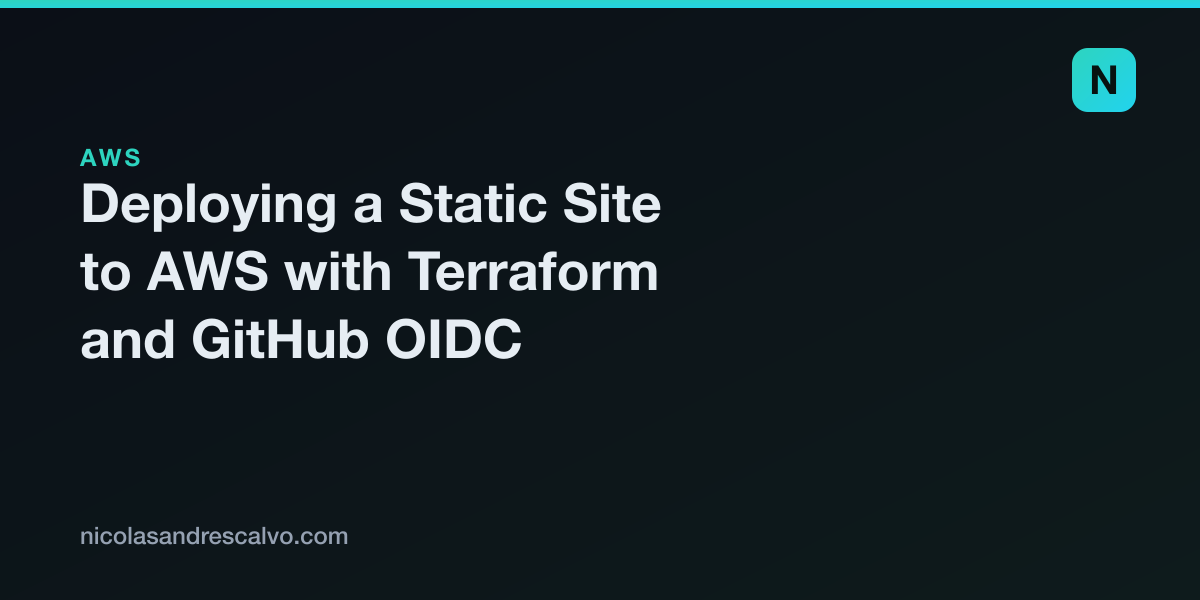
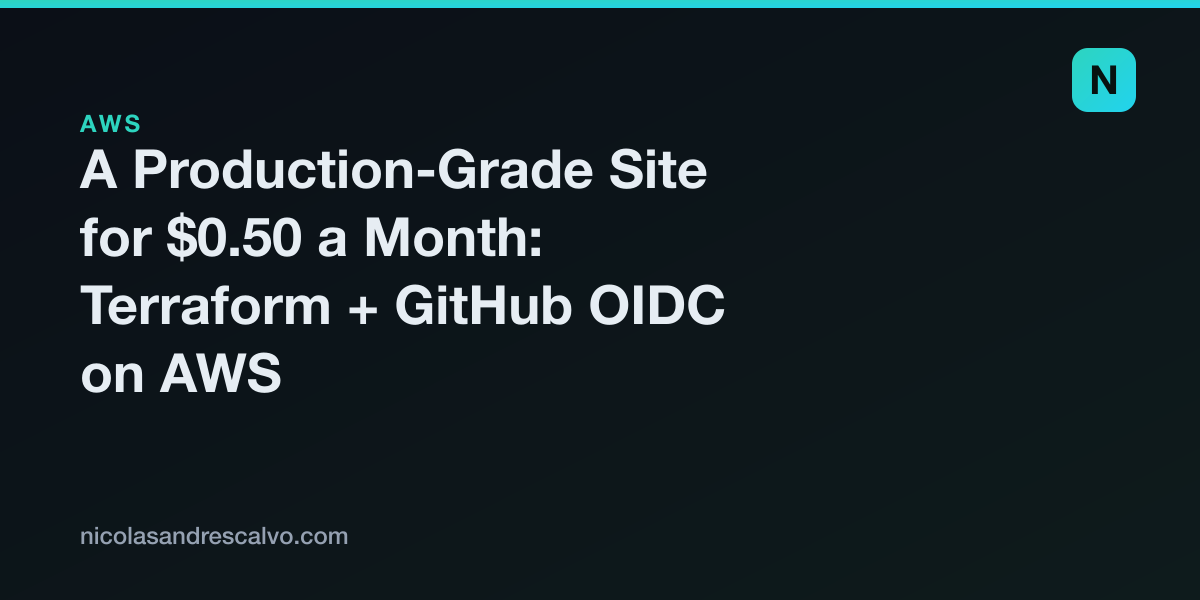
feat: hide GitLab case, sharpen OIDC article with pricing and a stronger hook

Changed region(s): [[0.0617, 0.18, 0.6167, 0.66]]

diff --git a/src/content/cases/terraform-github-oidc-static-site.md b/src/content/cases/terraform-github-oidc-static-site.md
@@ -1,31 +1,50 @@
 ---
-title: "Deploying a Static Site to AWS with Terraform and GitHub OIDC"
-date: 2026-06-15
+title: "A Production-Grade Site for $0.50 a Month: Terraform + GitHub OIDC on AWS"
+date: 2026-06-16
 slug: terraform-github-oidc-static-site
 draft: false
 role: "Personal project"
 tags: ["aws", "terraform", "github-actions", "ci-cd", "cloudfront"]
-summary: "The lazy way to deploy from CI is to paste an AWS access key into a GitHub secret. Here is how this very site ships instead: short-lived OIDC credentials, remote state, and a pipeline that plans on a PR and applies on merge, plus the two gotchas that cost me an afternoon."
+summary: "HTTPS, a global CDN, infrastructure as code, deploys on every git push, and not one leakable secret, for about fifty cents a month. Here is the whole build, the cost breakdown, and the two gotchas that cost me an afternoon."
 ---
 
-# Deploying a Static Site to AWS with Terraform and GitHub OIDC
+# A Production-Grade Site for $0.50 a Month: Terraform + GitHub OIDC on AWS
 
-The fast way to deploy from CI is to create an AWS access key, paste it into a GitHub secret, and move on. It works in five minutes. It is also a long-lived credential with standing permissions sitting in a settings page, and it will still be there, valid, the day someone leaks a workflow log.
+> **TL;DR** This site runs on AWS with HTTPS, a global CDN, and a pipeline that deploys on every push, using **short-lived credentials and zero stored keys**. Infrastructure cost: **about $0.50 a month**. The whole thing is Terraform, and the repo is public.
 
-This site (the one you are reading) deploys without a single static key. The pipeline authenticates to AWS with short-lived credentials it requests per run, scoped to one repository. Here is the whole setup, and the two gotchas that turned a quick job into an afternoon.
+Two beliefs cost teams real money and real risk. The first: production hosting is expensive. The second: the way to deploy from CI is to paste an AWS access key into a secret and move on. Both are wrong, and this site is the proof.
+
+It serves over HTTPS from a global CDN, deploys itself on every `git push`, and authenticates to AWS with credentials that expire when the job ends. There is no long-lived key anywhere to leak. It costs roughly **fifty cents a month**. Here is exactly how, including the cost breakdown and the two gotchas.
 
 ## In plain terms
 
-Instead of handing CI a permanent key to the house, you give it the right to ask a guard for a key that works for a few minutes and only opens one door. Every run asks again. There is nothing to leak, because there is no lasting key to steal.
+Instead of giving the deploy robot a permanent key to the building, you give it the right to ask a guard for a key that works for a few minutes and opens one door. Every deploy asks again. Nothing lasting exists to steal. And the "building" is rented by the request, so an empty site costs almost nothing.
 
-## What gets deployed
+## What you get
 
-The site is static files. The infrastructure around them, all in Terraform:
+- 🔒 **HTTPS** on a custom domain, certificate auto-renewed.
+- 🌍 **Global CDN** (CloudFront) in front of a **private** bucket.
+- 🧱 **All Terraform**, in a public repo, reviewed as pull requests.
+- 🤖 **Deploys on push** to `main`, no human in the loop.
+- 🔑 **No static AWS keys** anywhere: short-lived OIDC credentials per run.
+- 💸 **~$0.50/month.**
 
-- **S3** holds the built site, as a private bucket.
-- **CloudFront** serves it over HTTPS, with the bucket locked behind an Origin Access Control so it is not public.
-- **ACM** issues the TLS certificate (in us-east-1, which CloudFront requires).
-- **Route53** points the apex and www at the distribution.
+## What it costs
+
+The number that sells this: a production-grade setup, for the price of a coffee per year.
+
+| Piece | Cost |
+|------|------|
+| Route53 hosted zone | $0.50 / month |
+| S3 (storage + requests) | a few cents |
+| CloudFront | $0 (the 1 TB/month free tier covers a portfolio) |
+| ACM certificate | free |
+| **Infrastructure total** | **~$0.50 / month** |
+| Domain (.com), separate | ~$12 / year |
+
+CloudFront's perpetual free tier (1 TB out and 10M requests a month) means a personal or small-business site effectively pays nothing for delivery. The only standing charge is the Route53 hosted zone. That is the whole bill.
+
+## The architecture
 
 ```mermaid
 flowchart TB
@@ -34,50 +53,50 @@ flowchart TB
   CF -->|"Origin Access Control"| S3["S3 (private bucket)"]
 ```
 
-## Decision 1: OIDC instead of stored keys
+Static files in a private bucket, a CDN putting them behind HTTPS and the domain. Nothing is public except CloudFront.
 
-GitHub Actions can present a signed OpenID Connect token to AWS. You create an IAM role whose trust policy accepts that token, but only from your repository, and the workflow assumes the role at runtime. AWS hands back temporary credentials that expire when the job ends.
+## OIDC instead of stored keys
+
+GitHub Actions can present a signed OpenID Connect token to AWS. You create an IAM role that trusts that token, but only from your repository, and the workflow assumes it at runtime. AWS returns temporary credentials that die with the job.
 
 ```mermaid
 flowchart LR
-  GH["GitHub Actions job"] -->|"OIDC token (repo-scoped)"| AWS["AWS STS"]
-  AWS -->|"short-lived credentials"| GH
+  GH["GitHub Actions job"] -->|"OIDC token (repo-scoped)"| STS["AWS STS"]
+  STS -->|"short-lived credentials"| GH
   GH -->|"terraform apply / s3 sync"| INFRA["AWS resources"]
 ```
 
-No keys are stored anywhere. The trust is scoped with a condition on the token's `sub` claim, so only this repo (and the branches I choose) can assume the role. Leaking a build log leaks nothing reusable.
+Nothing is stored. The trust is scoped with a condition on the token, so only this repo can assume the role. Leak a build log and you leak nothing reusable. This is the single highest-leverage security upgrade most pipelines are missing, and it is a one-time setup.
 
-## Decision 2: remote state, and the bootstrap chicken-and-egg
+## Remote state, and the bootstrap chicken-and-egg
 
-For the pipeline to run Terraform, two things must already exist: somewhere to keep state (an S3 backend plus a lock table) and the OIDC role itself. Neither can be created by the pipeline that depends on them.
+For the pipeline to run Terraform, two things must already exist: a state backend (an S3 bucket plus a lock table) and the OIDC role itself. Neither can be created by the pipeline that needs them.
 
-So there is a small, separate **bootstrap** that runs once, locally, with my own credentials. It creates the state bucket, the lock table, the GitHub OIDC provider and the roles, and nothing else. After that, the bootstrap is never touched and everything else flows through CI. One deliberate manual step buys a fully automated pipeline forever after.
+So a small **bootstrap** runs once, locally, and creates exactly those: state bucket, lock table, OIDC provider, roles. After that it is never touched. One deliberate manual step buys a fully automated pipeline forever.
 
-## Decision 3: plans on a PR, applies on merge
+## Plan on a PR, apply on merge
 
-The workflow is boring on purpose, which is the highest compliment infrastructure can earn:
+- **Pull request:** CI runs `fmt`, `validate` and `plan`, so every change is a reviewable diff.
+- **Merge to `main`:** CI runs `apply` with the OIDC role.
 
-- Open a pull request: CI runs `fmt`, `validate` and `plan`, so the change is reviewable as a diff.
-- Merge to `main`: CI runs `apply` with the OIDC role.
-
-The state lives in the shared backend, so local and CI never fight over it. Infrastructure changes the same way application code does: through a reviewed pull request, not a console.
+Infrastructure changes the same way code does: through review, not a console. (I felt the payoff first-hand: my local AWS session expired mid-project, I pushed anyway, and CI deployed it with no credentials of mine involved.)
 
 ## The two gotchas
 
-**1. A private bucket behind CloudFront does not serve directory indexes.** With S3 static-website hosting, requesting `/cases/` quietly returns `/cases/index.html`. Lock the bucket behind an Origin Access Control and that convenience disappears: the REST origin gets asked for an object literally named `cases/` and returns nothing. The fix is a tiny CloudFront Function on the viewer request that appends `index.html` to directory-style paths. Obvious in hindsight, invisible until every nested page 404s.
+**1. A private bucket behind CloudFront does not serve directory indexes.** With S3 website hosting, `/cases/` quietly returns `/cases/index.html`. Lock the bucket behind an Origin Access Control and that magic disappears: the origin gets asked for an object named `cases/` and returns nothing. Fix: a tiny CloudFront Function on the viewer request that appends `index.html` to directory paths. Invisible until every nested page 404s.
 
-**2. ACM validation hung because the domain pointed at the wrong zone.** The certificate sat in `PENDING_VALIDATION` forever. The DNS validation records were correct and matched what ACM expected exactly, but they would not resolve on the public internet. The cause: the registered domain delegated to an old set of nameservers, not the hosted zone Terraform was writing to. The tell was simple once I looked: the records were right in the zone, but `dig @8.8.8.8` returned nothing, which means "the world is not looking at this zone." Repointing the domain's nameservers fixed it in minutes. Lesson: when DNS validation stalls, stop staring at the record values and check the delegation first.
+**2. ACM validation hung because the domain pointed at the wrong zone.** The certificate sat in `PENDING_VALIDATION` forever. The validation records were correct and matched what ACM expected, but they would not resolve publicly. The domain delegated to an old set of nameservers, not the zone Terraform was writing to. The tell: the records were right in the zone, but `dig @8.8.8.8` returned nothing, which means the world is not looking at this zone. Repointing the nameservers fixed it in minutes. When DNS validation stalls, check the delegation before the values.
 
 ## What I would do differently
 
-Codify the domain's nameserver delegation in Terraform too (it is currently set once by hand), so it cannot drift back to an old zone and reintroduce exactly the failure above.
+Codify the domain's nameserver delegation in Terraform too, so it cannot drift back to an old zone and reintroduce that exact failure.
 
-## The transferable lesson
+## The lesson
 
-"Put the key in a secret" is the default, and defaults are where risk accumulates. OIDC turns CI authentication from a stored secret into a short-lived, scoped request, and it is not meaningfully harder to set up once you have done it once. Pair it with remote state and a PR-driven pipeline and the whole thing becomes the boring, auditable, leak-resistant baseline that infrastructure should be.
+"Production-grade" and "expensive" are not the same thing, and "convenient" and "secure" do not have to trade off. Static hosting on a CDN is pennies. OIDC turns CI auth from a stored secret into a short-lived, scoped request. Put them together with Terraform and a PR-driven pipeline and you get the boring, auditable, leak-resistant, near-free baseline that every project deserves.
 
 > The Terraform for this site is public: [github.com/NicolasAndresCalvo/portfolio-infra](https://github.com/NicolasAndresCalvo/portfolio-infra).
 
 ---
 
-*A personal project. No account identifiers or secrets are included.*
+*A personal project. No account identifiers or secrets are included. Prices are AWS list-price approximations.*

diff --git a/src/content/cases/gitlab-components-ci-governance.md b/src/content/cases/gitlab-components-ci-governance.md
@@ -2,7 +2,7 @@
 title: "GitLab Components for Governance: Standardizing CI Across an Org"
 date: 2026-05-01
 slug: gitlab-components-ci-governance
-draft: false
+draft: true
 role: "Platform / DevOps Engineer"
 tags: ["gitlab", "ci-cd", "platform-engineering", "devsecops", "governance"]
 summary: "Shared CI templates still drift. Real governance is a standard nobody can skip by accident: versioned, reusable components behind a single orchestrator that wires every mandatory security scan from one line."